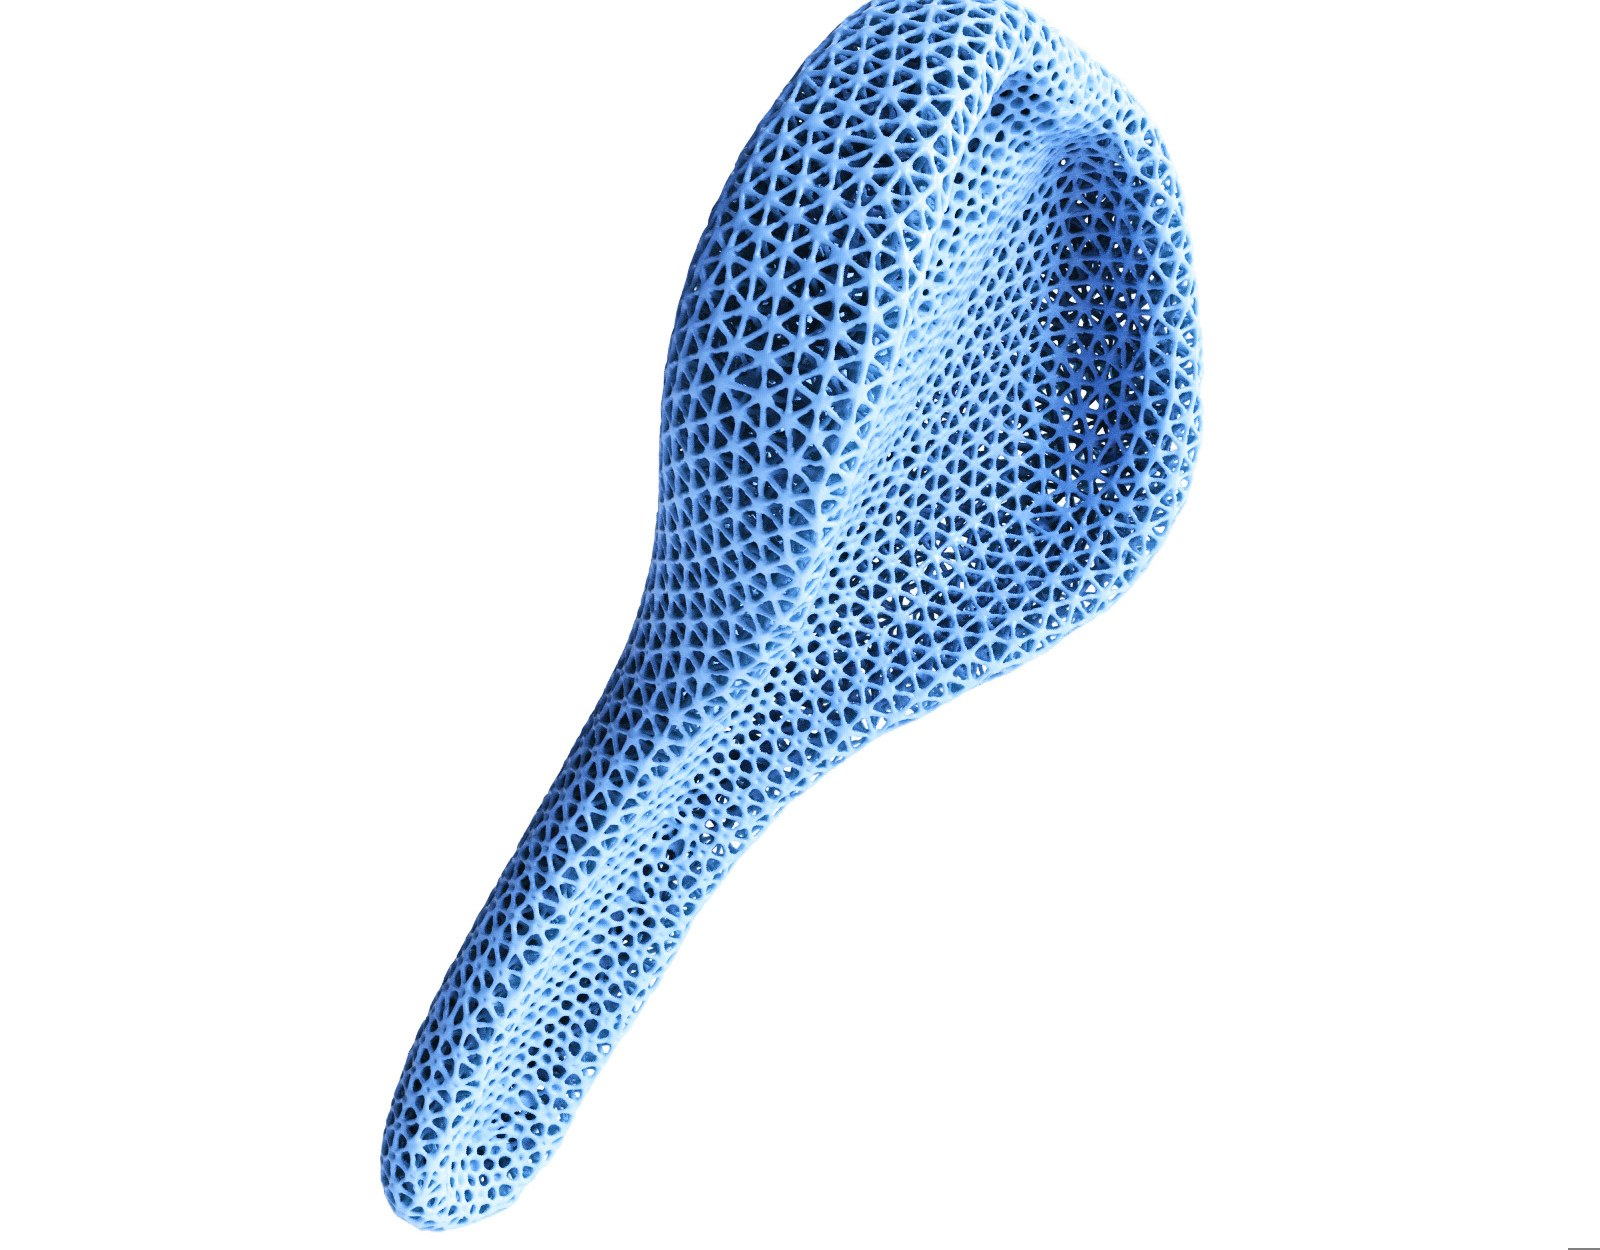
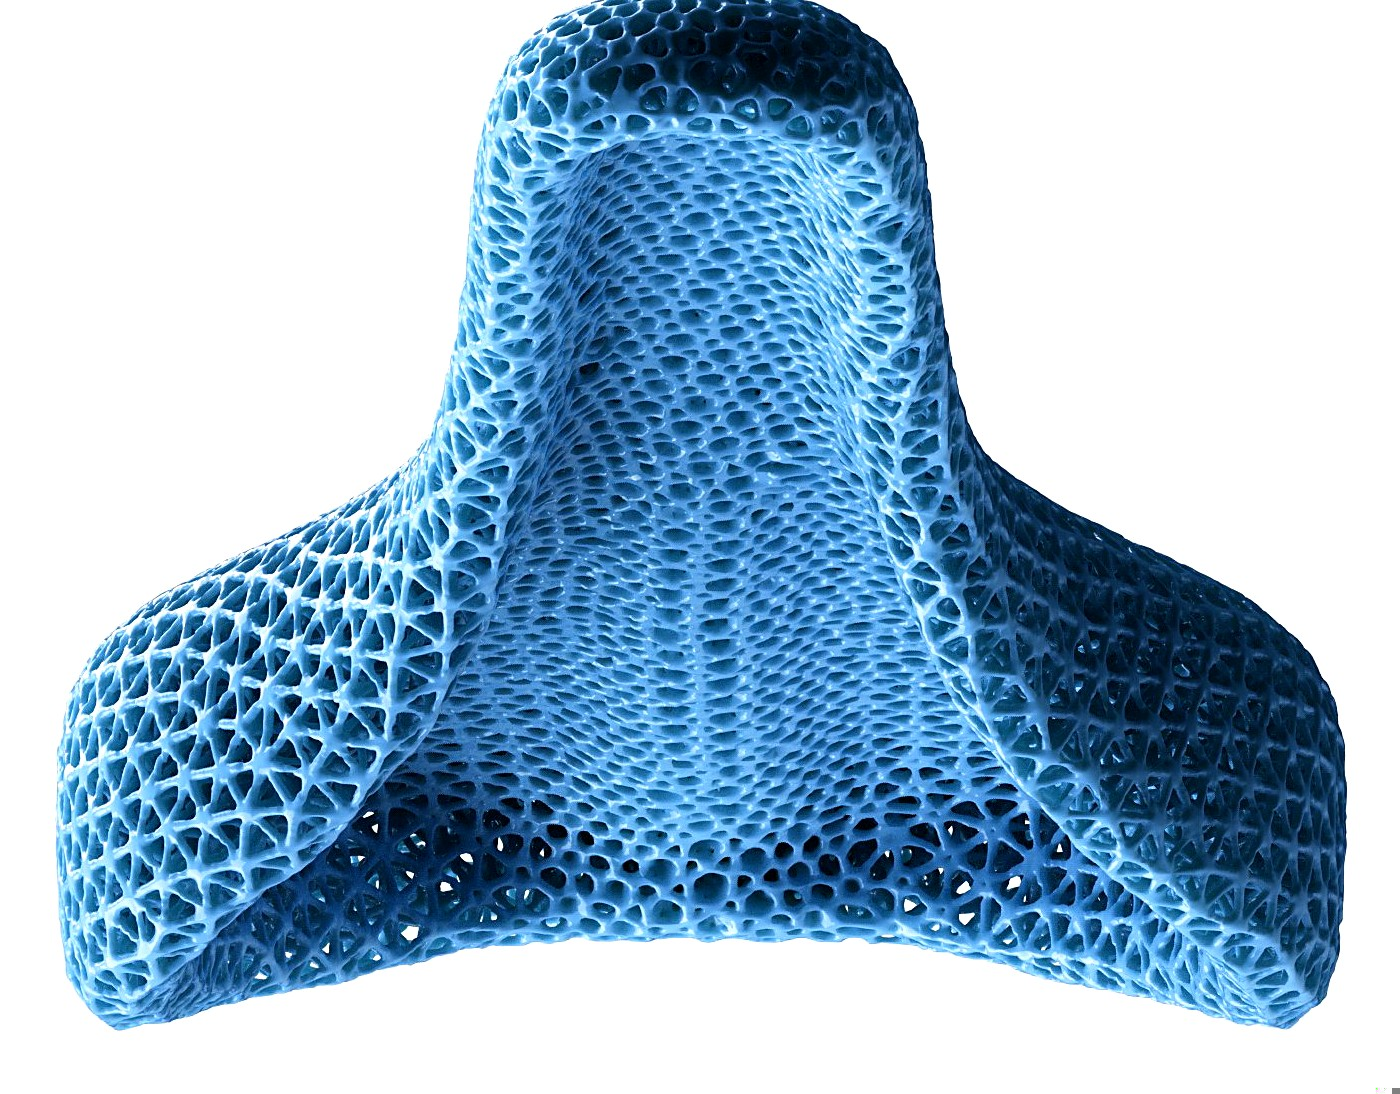
Lattice++: home tile and rollover from the saddle front views (tight crop, more colour), original hero restored, second in Work

diff --git a/content/lattice/project.md b/content/lattice/project.md
@@ -3,11 +3,11 @@ title: Lattice++                   # 标题
 year: 2025                         # 年份（页面上的编号就是它）
 summary: Conformal lattice generator for Grasshopper # 一句话类型，首页 tile 和列表里显示
 group: selected                    # selected 或 archive
-position: 1                        # 在所属组里排第几
+position: 2                        # 在所属组里排第几
 discipline: CD                     # 旧分类，现在不显示，可忽略
 cover: lattice_cover.jpg           # 首页封面（32:25 裁切）
 hover: lattice_hover.jpg           # 鼠标悬停时换成的图或循环视频
-hero: lattice_hero.jpg  # 项目页顶部大图；没有这行就用封面；inline = 顶部不放大图
+hero: lattice_03_saddle-front.jpg  # 项目页顶部大图；没有这行就用封面；inline = 顶部不放大图
 password: bounce                   # 访问密码：页面内容会用它加密，删掉这行就不加锁
 credits:                           # 显示在标题下方，有哪项写哪项，可整段删掉
   Tools: Rhino, Grasshopper, Custom Python Script, TetGen
